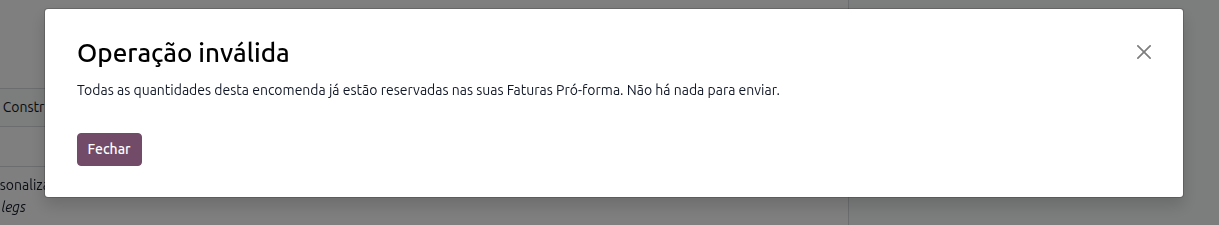
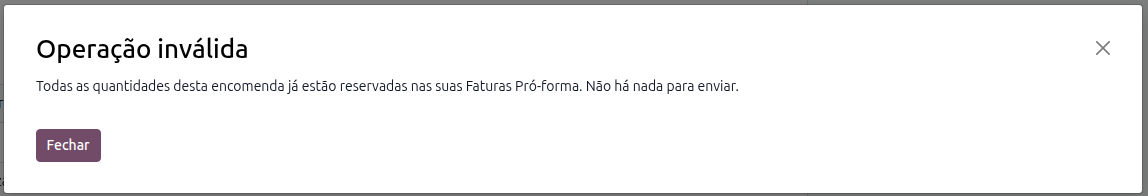
[update] fix to proforma images and indexation

Changed region(s): [[0.0, 0.0, 1.0, 1.0]]

diff --git a/content/applications/faq/series_communication.rst b/content/applications/faq/series_communication.rst
@@ -7,8 +7,6 @@ Comunicação de Séries
 .. seealso::
     :doc:`Consulte o nosso Guia sobre registo de Séries <../invoicing/series_registration>`
 
-.. _faq_invoice_ATusers:
-
 Permissões para criar sequências em Odoo
 ========================================
 De forma nativa **apenas** utilizadores com permissões técnicas podem criar Sequências em Odoo por motivos de segurança
@@ -23,6 +21,8 @@ Se realmente o quiser fazer, pode mudar essa permissão para outro grupo, como p
 
 A partir desse momento quem tiver a permissão selecionada já vai poder criar séries. Não esquecer que tem de ser um
 nível de permissão que consiga efetivamente aceder ao menu de criação e configuração de Séries documentais
+
+.. _faq_invoice_ATusers:
 
 Preciso de criar um subutilizador no site das Finanças?
 =======================================================

diff --git a/content/applications/invoicing.rst b/content/applications/invoicing.rst
@@ -15,7 +15,6 @@ Explore mais sobre os nossos add-ons de Faturação, Pagamentos e Stock
     :titlesonly:
 
     invoicing/fiscal_documents
-    invoicing/proforma
     invoicing/series_registration
     invoicing/taxes
     invoicing/withholding_tax
